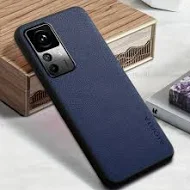
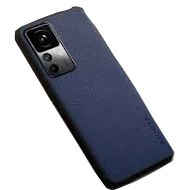
Change the design and create search bar

diff --git a/src/styles/HomeMain.styled.jsx b/src/styles/HomeMain.styled.jsx
@@ -17,10 +17,14 @@ export const HomeMainStyled = styled.main`
     gap: 0.5rem;
     border-radius: 0.5rem;
     padding: 1em;
-    background-color: white;
+    background: white;
     box-shadow:
       2px 2px 5px rgba(59, 59, 59, 0.25),
       -2px -2px 5px rgba(59, 59, 59, 0.25);
+  }
+
+  .image-container img:hover {
+    scale: 1.2;
   }
 
   .product-name {
@@ -53,6 +57,7 @@ export const HomeMainStyled = styled.main`
     display: flex;
     align-items: center;
     justify-content: space-evenly;
+    gap: 0.5rem;
     border-radius: 0.25rem;
   }
 
@@ -61,6 +66,8 @@ export const HomeMainStyled = styled.main`
     place-content: center;
     font-size: 1.2rem;
     padding: 0.5em 1em;
+    background-color: white;
+    border: 1px solid rgba(7, 207, 238, 0.3);
   }
 
   .product-quantities input {
@@ -74,19 +81,21 @@ export const HomeMainStyled = styled.main`
   .decrement-quantity {
     font-weight: bold;
     font-size: 1.5rem;
+    border-radius: 0.5rem;
   }
 
   .increment-quantity:hover,
   .decrement-quantity:hover {
-    background-color: #07cfee;
+    box-shadow:
+      2px 2px 2px rgba(0, 0, 0, 0.3),
+      -2px -2px 2px rgba(112, 232, 250, 0.5);
     cursor: pointer;
   }
 
   .add-cart-btn {
     padding: 0.25em 0.75em;
-    background: linear-gradient(135deg, #16a34a, #22c55e);
+    background: linear-gradient(135deg, #0f172a, #1e293b);
     border-radius: 0.25rem;
-    box-shadow: 3px 3px 2px #454545;
     display: grid;
     place-content: center;
   }
@@ -96,8 +105,34 @@ export const HomeMainStyled = styled.main`
     color: white;
   }
 
-  .add-cart-btn:hover,
-  .image-container img:hover {
+  .add-cart-btn:hover {
     scale: 1.1;
+    box-shadow:
+      -2px -2px 2px rgba(0, 0, 0, 0.3),
+      2px 2px 2px rgba(0, 0, 0, 0.3);
+  }
+`;
+
+export const StyledSearchBar = styled.div`
+  width: 100%;
+  display: flex;
+  align-items: center;
+  justify-content: center;
+  padding: 0.5rem;
+  background: linear-gradient(135deg, #0f172a, #1e293b);
+
+  input {
+    width: 60%;
+    padding: 0.5rem;
+    border: 1px solid rgba(0, 0, 0, 0.2);
+    border-radius: 1rem;
+    font-size: 1rem;
+  }
+
+  input::placeholder {
+    font-size: 0.65rem;
+    font-family: inherit;
+    font-weight: bold;
+    padding-left: 0.5rem;
   }
 `;

diff --git a/src/pages/Home.jsx b/src/pages/Home.jsx
@@ -1,21 +1,53 @@
-import { useParams, Navigate } from "react-router-dom";
+import { useState, useEffect } from "react";
+import { useParams, Navigate, useLocation } from "react-router-dom";
 import HomeMain from "../components/HomeMain";
 import { useProducts } from "../context/useProducts";
+import SearchBar from "../components/SearchBar";
 
 function Home() {
   const { products, categories } = useProducts();
   const { category } = useParams();
- 
 
-  const displayedProducts = category
-    ? products.filter((p) => p.category === category)
-    : products;
+  const [inputValue, setInputValue] = useState("");
+  const [searchTerm, setSearchTerm] = useState("");
+
+  const location = useLocation();
+
+  useEffect(() => {
+    setSearchTerm("");
+    setInputValue("");
+  }, [location.key]);
 
   if (category && !categories.includes(category)) {
     return <Navigate to="*" />;
   }
 
-  return <HomeMain displayedProducts={displayedProducts}  />;
+  const displayedProducts = products.filter((p) => {
+    const matchesCategory = !category || p.category === category;
+
+    const matchesSearch =
+      !searchTerm.trim() ||
+      p.name.toLowerCase().includes(searchTerm.toLowerCase());
+
+    return matchesCategory && matchesSearch;
+  });
+
+  const hasResults = displayedProducts.length > 0;
+
+  return (
+    <>
+      <SearchBar
+        inputValue={inputValue}
+        setInputValue={setInputValue}
+        setSearchTerm={setSearchTerm}
+      />
+      {hasResults ? (
+        <HomeMain products={displayedProducts} />
+      ) : (
+        <h1 style={{textAlign: "center"}}>Not found</h1>
+      )}
+    </>
+  );
 }
 
 export default Home;

diff --git a/src/components/SearchBar.jsx b/src/components/SearchBar.jsx
@@ -1,10 +1,27 @@
+import { StyledSearchBar } from "../styles/HomeMain.styled";
 
-function SearchBar() {
+function SearchBar({inputValue, setInputValue, setSearchTerm }) {
   return (
-    <div>
-      <input type="text" name="search" id="search" />
-    </div>
-  )
+    <StyledSearchBar>
+      <label htmlFor="search" className="sr-only"></label>
+      <input
+        placeholder="Search..."
+        type="text"
+        name="search"
+        id="search"
+        value={inputValue}
+        onChange={(e) => {
+          setInputValue(e.target.value);
+        }}
+        onKeyDown={(e) => {
+          if (e.key === "Enter") {
+            setSearchTerm(inputValue);
+            setInputValue("");
+          }
+        }}
+      />
+    </StyledSearchBar>
+  );
 }
 
-export default SearchBar
+export default SearchBar;

diff --git a/src/styles/Header.styled.jsx b/src/styles/Header.styled.jsx
@@ -2,7 +2,6 @@ import styled from "styled-components";
 import { Link } from "react-router-dom";
 
 export const HeaderStyled = styled.header`
-  background: linear-gradient(135deg, #0f172a, #1e293b);
   padding: clamp(1rem, 0.648rem + 1.502vw, 2rem);
   display: flex;
   align-items: center;
@@ -24,7 +23,7 @@ export const HeaderStyled = styled.header`
   }
 
   .hamburger {
-    color: white;
+    color: black;
   }
 
   .hidden {
@@ -63,24 +62,34 @@ export const HeaderStyled = styled.header`
 
   .cart-container {
     position: relative;
+    transform: translateY(1rem);
 
     .cart-icon {
       font-size: 1.5rem;
-      color: white;
+      color: black;
     }
 
     .cart-quantity {
       position: absolute;
       top: 0;
-      left: 25%;
-      width: 1.2rem;
-      height: 1.2rem;
+      left: 10%;
+      width: 1.5rem;
+      height: 1.5rem;
       transform: translateY(-95%);
       display: grid;
       place-content: center;
-      color: white;
-      background: linear-gradient(135deg, #16a34a, #22c55e);
+      color: #fff;
+      background: linear-gradient(135deg, #0f172a, #1e293b);
       border-radius: 50%;
+      border: 2px solid rgb(7, 207, 238);
+    }
+
+    .cart-quantity:hover {
+      scale: 1.2;
+      background: rgb(7, 207, 238);
+      color: black;
+      font-weight: 500;
+      border: 1px solid;
     }
   }
 `;
@@ -110,7 +119,7 @@ export const StyledLink = styled(Link)`
 
   h1 {
     text-transform: uppercase;
-    color: rgb(7, 207, 238);
+    color: #0f172a;
     font-size: clamp(1rem, 0.296rem + 3.005vw, 3rem);
     line-height: 1;
   }

diff --git a/src/index.css b/src/index.css
@@ -7,7 +7,11 @@
 }
 
 body {
- background: linear-gradient(180deg, #f6fbff, #eef6ff);
+  background: linear-gradient(
+    180deg,
+    rgba(255, 255, 255, 0.95),
+    rgba(240, 253, 244, 0.9)
+  );
 }
 
 a {
@@ -20,7 +24,8 @@ button {
   cursor: pointer;
 }
 
-img, svg {
+img,
+svg {
   max-width: 100%;
   display: block;
   object-fit: cover;
@@ -30,4 +35,9 @@ ul {
   list-style: none;
 }
 
-
+input {
+  border: none;
+  outline: none;
+  cursor: pointer;
+  font-family: inherit;
+}

diff --git a/src/components/HomeMain.jsx b/src/components/HomeMain.jsx
@@ -1,11 +1,11 @@
 import { HomeMainStyled } from "../styles/HomeMain.styled";
 import ProductCard from "./ProductCard";
 
-function HomeMain({displayedProducts}) {
+function HomeMain({products}) {
 
   return (
     <HomeMainStyled>
-      {displayedProducts.map((product) => {
+      {products.map((product) => {
         return (
           <ProductCard
             key={product.id}

diff --git a/src/pages/PageNotFound.jsx b/src/pages/PageNotFound.jsx
@@ -3,8 +3,6 @@ import {Wrapper, Content, ErrorCode, Title, Text, StyledLink } from "../styles/N
 
 function PageNotFound() {
   return (
-    <>
-      <Header />
       <Wrapper>
         <Content>
           <ErrorCode>404</ErrorCode>
@@ -16,7 +14,7 @@ function PageNotFound() {
           <StyledLink to="/">Go back home</StyledLink>
         </Content>
       </Wrapper>
-    </>
+
   );
 }
 

diff --git a/src/styles/Dropdown.styled.jsx b/src/styles/Dropdown.styled.jsx
@@ -13,7 +13,6 @@ export const DropdownStyled = styled.section`
   backdrop-filter: blur(6px);
   border: 1px solid #e2e8f0;
   border-radius: 0.5rem;
-  box-shadow: 0 12px 30px rgba(15, 23, 42, 0.15);
   padding: 0.5rem;
   z-index: 2;
   height: calc(100vh - clamp(1.5rem, 0.12rem + 3.756vw, 3.5rem) - 3.5rem);
@@ -54,8 +53,7 @@ export const DropdownStyled = styled.section`
 
   .cart-total,
   .head {
-    background: linear-gradient(135deg, #16a34a, #22c55e);
-    box-shadow: 2px 2px 2px rgba(0, 0, 0, 0.2);
+     background: linear-gradient(135deg, #0f172a, #1e293b);
     border-radius: 0.5rem;
     color: white;
   }

diff --git a/src/components/Header.jsx b/src/components/Header.jsx
@@ -1,7 +1,8 @@
-import { HeaderStyled } from "../styles/Header.styled";
 import Navbar from "./Navbar";
 import Logo from "./Logo";
 import CartMenu from "./CartMenu";
+import { HeaderStyled } from "../styles/Header.styled";
+
 
 function Header() {
   return (

diff --git a/src/context/CartProvider.jsx b/src/context/CartProvider.jsx
@@ -1,4 +1,3 @@
-// CartContext.jsx
 import { useState, useEffect } from "react";
 import { CartContext } from "./CartContext";
 